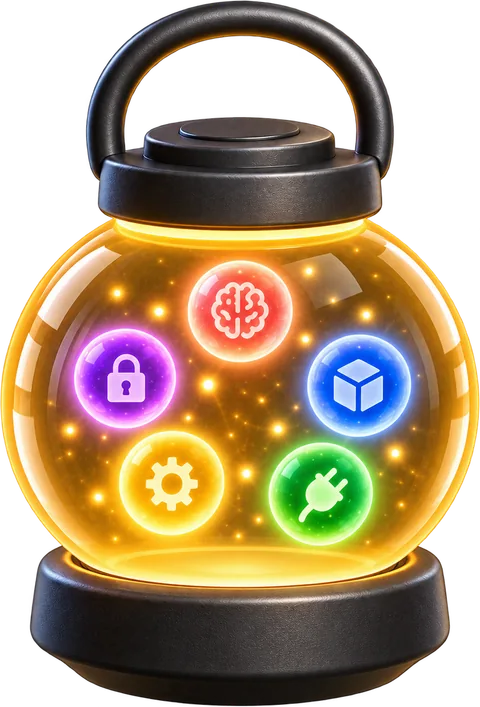
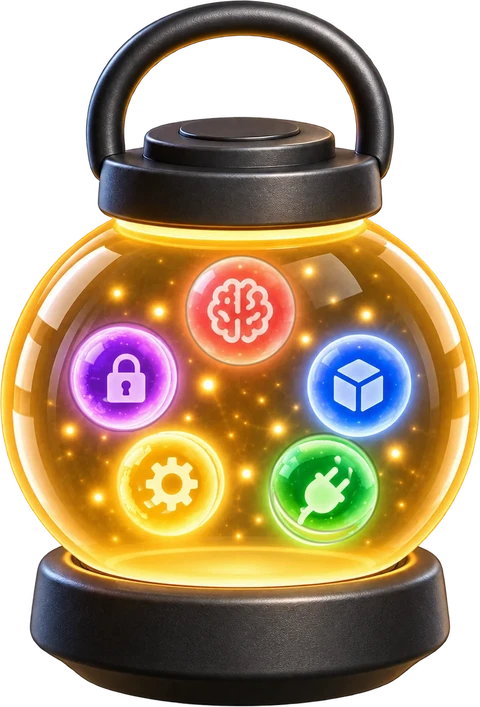
Match homepage lantern orbs to the packages disc.
Memory, secrets, and integrations were painted smaller than the packages orb, so the hover ring and the glyph read small. Those three discs are scaled to the packages diameter. Secrets, jobs, and integrations kept glyphs on the disc centre while the glow sat off to one side; the still slides each glow onto its glyph. Packages is unchanged.

diff --git a/packages/worker/universal/landing-lantern.ts b/packages/worker/universal/landing-lantern.ts
@@ -37,18 +37,19 @@ export const landingLanternGlass = { x: 0.5, y: 0.545, r: 0.46 } as const
 
 /**
  * Orb centres (percent of width and height) and disc diameters (percent of
- * width) in the still. Fitted as discs against each orb's hue (inside minus
- * surrounding annulus), not as hue centroids: the painted glow is brighter
- * below and left of each orb and pulled centroids off the disc. The painted
- * orbs are not all the same size, so each hotspot carries its own diameter
- * and the highlight ring hugs its disc.
+ * width) in the still. Every hotspot is the packages disc. Memory was
+ * painted smaller, and secrets and integrations a little smaller, so those
+ * orbs are scaled in the still to this diameter and the highlight ring
+ * matches. Centres stay on the discs. Secrets, jobs, and integrations
+ * glyphs already sat on those centres; their glows were brighter off to
+ * one side, so the still slides each glow onto its glyph.
  */
 export const landingLanternOrbs = [
-	{ id: 'memory', x: 50.1, y: 43.9, size: 20 },
-	{ id: 'secrets', x: 25.7, y: 53.3, size: 22.4 },
+	{ id: 'memory', x: 50.1, y: 43.9, size: 22.8 },
+	{ id: 'secrets', x: 25.7, y: 53.3, size: 22.8 },
 	{ id: 'packages', x: 74.9, y: 54.3, size: 22.8 },
 	{ id: 'jobs', x: 35.4, y: 68.3, size: 22.8 },
-	{ id: 'integrations', x: 67.5, y: 69, size: 21.4 },
+	{ id: 'integrations', x: 67.5, y: 69, size: 22.8 },
 ] as const satisfies ReadonlyArray<{
 	id: LandingPrimitiveId
 	x: number

diff --git a/packages/worker/universal/landing-lantern.node.test.ts b/packages/worker/universal/landing-lantern.node.test.ts
@@ -16,13 +16,17 @@ test('lantern orbs cover every homepage primitive exactly once, in copy order', 
 	const copyIds = landingHomePrimitives.map((primitive) => primitive.id)
 	expect(landingLanternOrbs.map((orb) => orb.id)).toEqual(copyIds)
 	expect([...landingPrimitiveIds]).toEqual(copyIds)
+	const packagesSize = landingLanternOrbs.find(
+		(orb) => orb.id === 'packages',
+	)!.size
 	for (const orb of landingLanternOrbs) {
 		expect(orb.x).toBeGreaterThan(0)
 		expect(orb.x).toBeLessThan(100)
 		expect(orb.y).toBeGreaterThan(0)
 		expect(orb.y).toBeLessThan(100)
-		expect(orb.size).toBeGreaterThan(15)
-		expect(orb.size).toBeLessThan(30)
+		// Every hotspot matches the packages disc, including memory
+		// which used to be painted smaller.
+		expect(orb.size).toBe(packagesSize)
 	}
 	expect(landingLanternImage.srcSet).toContain(landingLanternImage.src)
 	expect(landingLanternImage.width / landingLanternImage.height).toBeCloseTo(
